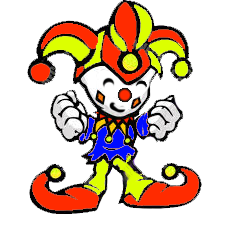
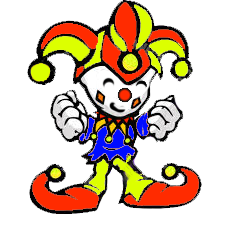
added fire picture to index slider, fixed graphic for jester.

Changed region(s): [[0.1244, 0.28, 0.2489, 0.3733], [0.7467, 0.3111, 0.7778, 0.3422]]

diff --git a/index.html b/index.html
@@ -84,7 +84,7 @@
                 <h2>Welcome!</h2>
                 <p>Planning your next birthday party? You've come to the right place! Dano's got a whole bag of tricks with your name on it!</p>
 				<p>No crowd too big or too small, he does it all!</p>
-				<p>Feel free to check out some of his mind blowing tricks in the <a href="photogallery.html">'Gallery'</a> page</p>
+				<p>Feel free to check out some of his mind blowing tricks in the <a href="gallery.html">'Gallery' </a>page</p>
               </div>
             </li>
 			<li> <img src="css/images/slide-img.png" alt="" class="alignleft">
@@ -106,9 +106,16 @@
             <li> <img src="css/images/slide-img3.png" alt="" class="alignleft">
               <div class="slide-cnt">
                 <h2>Fantastic Balloon Animals</h2>
-                <p>With over 30 different balloon animals in his pocket, Dano is sure to Astound both old and young alike!</p>
+                <p>With over 30 different balloon animals in his pocket, Dano is sure to astound both old and young audiances alike!</p>
                 <a href="#" class="red-btn">Find Out More!</a> </div>
             </li>
+            <li> <img src="css/images/slide-img-fire.png" alt="" class="alignleft">
+              <div class="slide-cnt">
+                <h2>Outstanding Fire show</h2>
+                <p>When the lights go out, Dano's fire torches come out! Sure to gather a huge crowd at any event!</p>
+                <p>Dano practices fire juggling professionally, and with care. Every precaution is made before the start of every show to ensure the highest level of safety is guarenteed.</p></div>
+            </li>
+
           </ul>
         </div>
         <!-- end of flexslider -->
